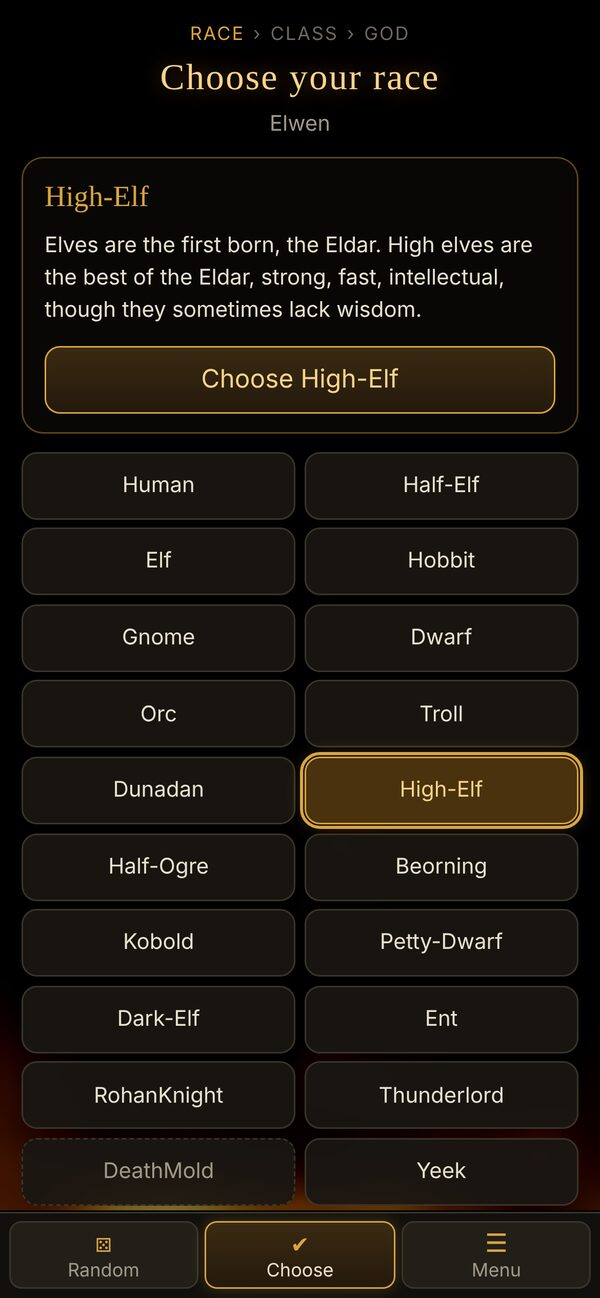
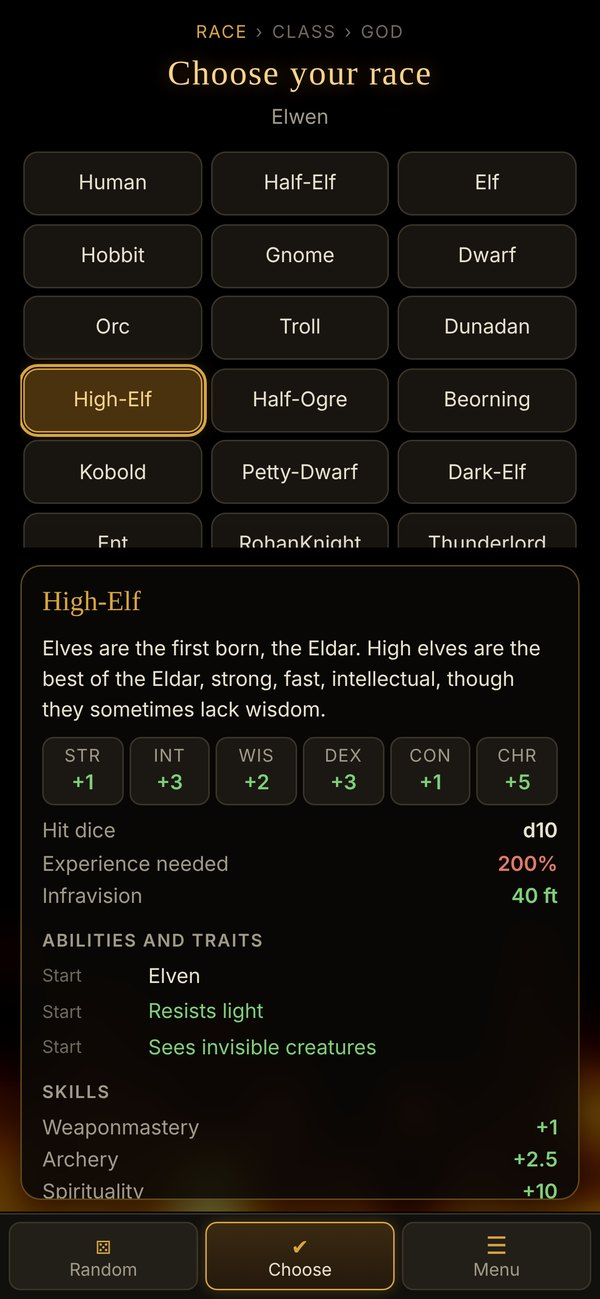
README: new screenshots and an up-to-date tour
- Seven new images from the current game: the title (Continue as a level 41
  mage, More adventurers), character creation, a legendary inventory, the
  soundtrack, and three fights at three stages of a hero's life: Mirkwood's
  spiders, Bolg in Moria, a dragon on Mount Doom.
- Shops and the home, saved adventurers, Abandon, Backup, Help, kept levels
  and Enter shop described as they now work.

Claude-Session: https://claude.ai/code/session_015ZJzzAbFuYAoPX7JATyCMF

diff --git a/README.md b/README.md
@@ -1,6 +1,6 @@
 <p align="center">
   <a href="https://darrencroton.github.io/tales-of-middle-earth/">
-    <img src="docs/images/title.jpg" alt="ToME — Tales of Middle-earth: the title screen, a mosaic logo lit by rising flames" width="100%" />
+    <img src="docs/images/title.jpg" alt="ToME — Tales of Middle-earth: the title screen, a mosaic logo lit by rising flames, with Continue as Elwen, a level 41 High-Elf Mage on Mount Doom" width="100%" />
   </a>
 </p>
 
@@ -23,7 +23,7 @@ Leave the comfort of Bree and walk out into a wide, dangerous Middle-earth. Expl
 Every level is generated fresh, every hero is different, and death is permanent. That is what makes each victory count.
 
 - **22 races** — Hobbits, Dwarves, Ents, Beornings, Maiar, High-Elves and more, with optional twists such as Vampire or Spectre.
-- **Around 30 classes** — from Warrior and Ranger to Necromancer, Geomancer, Possessor, Symbiant and Bard.
+- **30 classes** — from Warrior and Ranger to Necromancer, Geomancer, Possessor, Symbiant and Bard.
 - **A free-form skill system** — spend points where you like and shape your hero your way.
 - **Gods to follow** — pledge yourself to Eru, Manwë, Tulkas, Varda, Ulmo… or Melkor.
 - **Nearly 900 creatures** and **almost 200 legendary artifacts** to find, wield and lose.
@@ -31,14 +31,24 @@ Every level is generated fresh, every hero is different, and death is permanent.
 
 <table>
   <tr>
-    <td width="33%"><img src="docs/images/creation.jpg" alt="Character creation: choosing a High-Elf from a grid of races, with a description card" /></td>
-    <td width="33%"><img src="docs/images/town.jpg" alt="Bree by day: shaded tiles, townsfolk, the HUD with health, mana and sanity bars, and the smart toolbar" /></td>
-    <td width="33%"><img src="docs/images/dungeon.jpg" alt="Mount Doom: rivers of lava glow in the dark while a pack of hounds and a golem close in" /></td>
+    <td width="33%"><img src="docs/images/creation.jpg" alt="Character creation: choosing a High-Elf from the grid of races, with their attributes, traits and skills" /></td>
+    <td width="33%"><img src="docs/images/inventory.jpg" alt="The inventory of a level 34 Dwarf Warrior: the Phial of Galadriel, the Chain Mail of Arvedui, the Shield of Celegorm and a Katana of Aman" /></td>
+    <td width="33%"><img src="docs/images/soundtrack.jpg" alt="The soundtrack: The Crack of Doom playing, with every theme and the story it tells" /></td>
   </tr>
   <tr>
-    <td width="33%"><img src="docs/images/character.jpg" alt="The character sheet: attributes, combat and progress at a glance" /></td>
-    <td width="33%"><img src="docs/images/inventory.jpg" alt="The inventory: pack and equipment tabs, weight carried, tappable items" /></td>
-    <td width="33%"><img src="docs/images/soundtrack.jpg" alt="The soundtrack: every theme grouped by where it plays, with Play all" /></td>
+    <td align="center"><sub><b>Choose your hero</b> from 22 races and 30 classes</sub></td>
+    <td align="center"><sub><b>Gather legendary gear</b> and tap anything to read about it</sub></td>
+    <td align="center"><sub><b>Music composed live</b> for every place you go</sub></td>
+  </tr>
+  <tr>
+    <td width="33%"><img src="docs/images/mirkwood.jpg" alt="Mirkwood: a level 12 Hobbit Warrior fights off a nest of giant spiders among the trees — Unstoppable, 8 foes in quick succession" /></td>
+    <td width="33%"><img src="docs/images/moria.jpg" alt="Moria: a level 34 Dwarf Warrior surrounded by an army of orcs slays Bolg, Son of Azog — a legend falls" /></td>
+    <td width="33%"><img src="docs/images/doom.jpg" alt="Mount Doom: a level 41 High-Elf Mage's Manathrust hits an Ancient red dragon for 463 across the lava, and it flees in terror" /></td>
+  </tr>
+  <tr>
+    <td align="center"><sub><b>Mirkwood</b> · a Hobbit at level 12 cuts through a spider nest</sub></td>
+    <td align="center"><sub><b>Moria</b> · a Dwarf at level 34 fells Bolg amid an orc army</sub></td>
+    <td align="center"><sub><b>Mount Doom</b> · a High-Elf mage at level 41 puts a dragon to flight</sub></td>
   </tr>
 </table>
 
@@ -51,10 +61,12 @@ This is the full ToME 2 game, with an interface designed from scratch for phones
 | **Tap** | Walk to any place you have seen — doors open on the way. A tap into the dark takes one step towards it. Tap a creature beside you to fight it. |
 | **Press and hold** | Look at anything on the map: *"a Village idiot (awake, unhurt) on grass"*. |
 | **Drag** · **Pinch** | Look around the level without moving · zoom in and out. |
-| **Explore** | One button walks you to the next unexplored room or item, stops when danger appears, and heads for the stairs once the level is done. |
-| **Toolbar** | One button changes with the moment — *Attack*, *Pick up*, *Descend*, *Eat* when hungry, *Light* in the dark, else *Explore* — and your own buttons (your quick spell, Cast, Fire, Items, Rest) stay where they are. |
+| **Explore** | One button maps the level for you, room by room, picking up gold, walking past your companions and stopping the moment danger appears; once the level is done it heads for the stairs. |
+| **Toolbar** | One button changes with the moment — *Attack*, *Pick up*, *Descend*, *Enter shop*, *Eat* when hungry, *Light* in the dark, else *Explore* — and your own buttons (your quick spell, Cast, Fire, Items, Rest) stay where they are. |
 
 **Everything is a tap away.** Your pack, equipment, character sheet, skills, abilities and knowledge are proper mobile screens, not text menus. Tap any item to read about it and use it; tap your name for your character; tap a creature for what you know about it. Questions — *how many?*, *which direction?*, *which target?* — appear as simple cards.
+
+**Shops and your home.** Browse a shop's whole stock in one list, tap anything to inspect it, then buy as many as you can afford. Sell from the same screen: each shop says what it buys and what it will pay. Store your treasures at home and take them back whenever you like.
 
 **A dungeon that glows.** Torchlight flickers and fades into darkness, lava casts a molten glow, water shimmers, and spells light up the walls as they fly. Places you've seen linger in a dim, blue memory.
 
@@ -64,20 +76,22 @@ This is the full ToME 2 game, with an interface designed from scratch for phones
 
 **Music for every place.** The soundtrack is composed live as you play, so it is never quite the same twice. Its leitmotifs — the hero's horn call, the Bree jig, the Dwarf march, the Shadow's theme — are recast for each place you visit and swell when danger is near, while sound effects bring every swing, door and spell to life. Hear every theme from **Soundtrack** on the title screen.
 
-**Your way.** Portrait or landscape, phone, tablet or desktop. Four text sizes, adjustable animation, separate music and sound volumes, classic ASCII symbols if you prefer them, and full keyboard support with all the original ToME keys.
+**Your way.** Portrait or landscape, phone, tablet or desktop. Four text sizes, adjustable animation, separate music and sound volumes, classic ASCII symbols if you prefer them, dungeon levels that stay as you left them (or are new each visit), and full keyboard support with all the original ToME keys. Settings also reminds you of the rules you chose for each adventure.
 
 ## New to roguelikes?
 
 - **Take it slowly.** Nothing moves until you do — the game is turn-based, so there is always time to think.
 - **Read before you fight.** Press and hold a creature to see how dangerous it is.
 - **Use Explore and Rest.** Let the game do the walking, and rest to recover before going deeper.
-- **Check *How to play*** in the game menu (☰) any time for a quick guide to the controls.
+- **Open Help** from the game menu (☰) or the title screen any time: a searchable guide to the controls, the dungeons, every race and class, and much more.
 
-## Your saves
+## Your adventures
 
 - The game **saves automatically** when you leave the app, and **☰ → Save and quit** returns you to the title screen.
-- Saves live in your browser on this device. Use **Export saves** (in the ☰ menu or on the title screen) to keep a backup or move your hero to another device, and **Import saves** to bring it back.
-- Clearing your browser's site data deletes your saves, so export a backup first.
+- The title screen offers **Continue** for your last hero, with their level, class and where they stand. **More adventurers** lists the rest; tap any hero to play on, or to delete them.
+- **☰ → Abandon adventure** ends the current adventure for good. Your other heroes, the Hall of Fame and your deeds stay.
+- Everything lives in your browser on this device. **Backup** on the title screen exports all of it as one file, to keep it safe or move it to another device, and imports it again.
+- Clearing your browser's site data deletes your adventures, so export a backup first.
 
 ## Install it on your device
 
